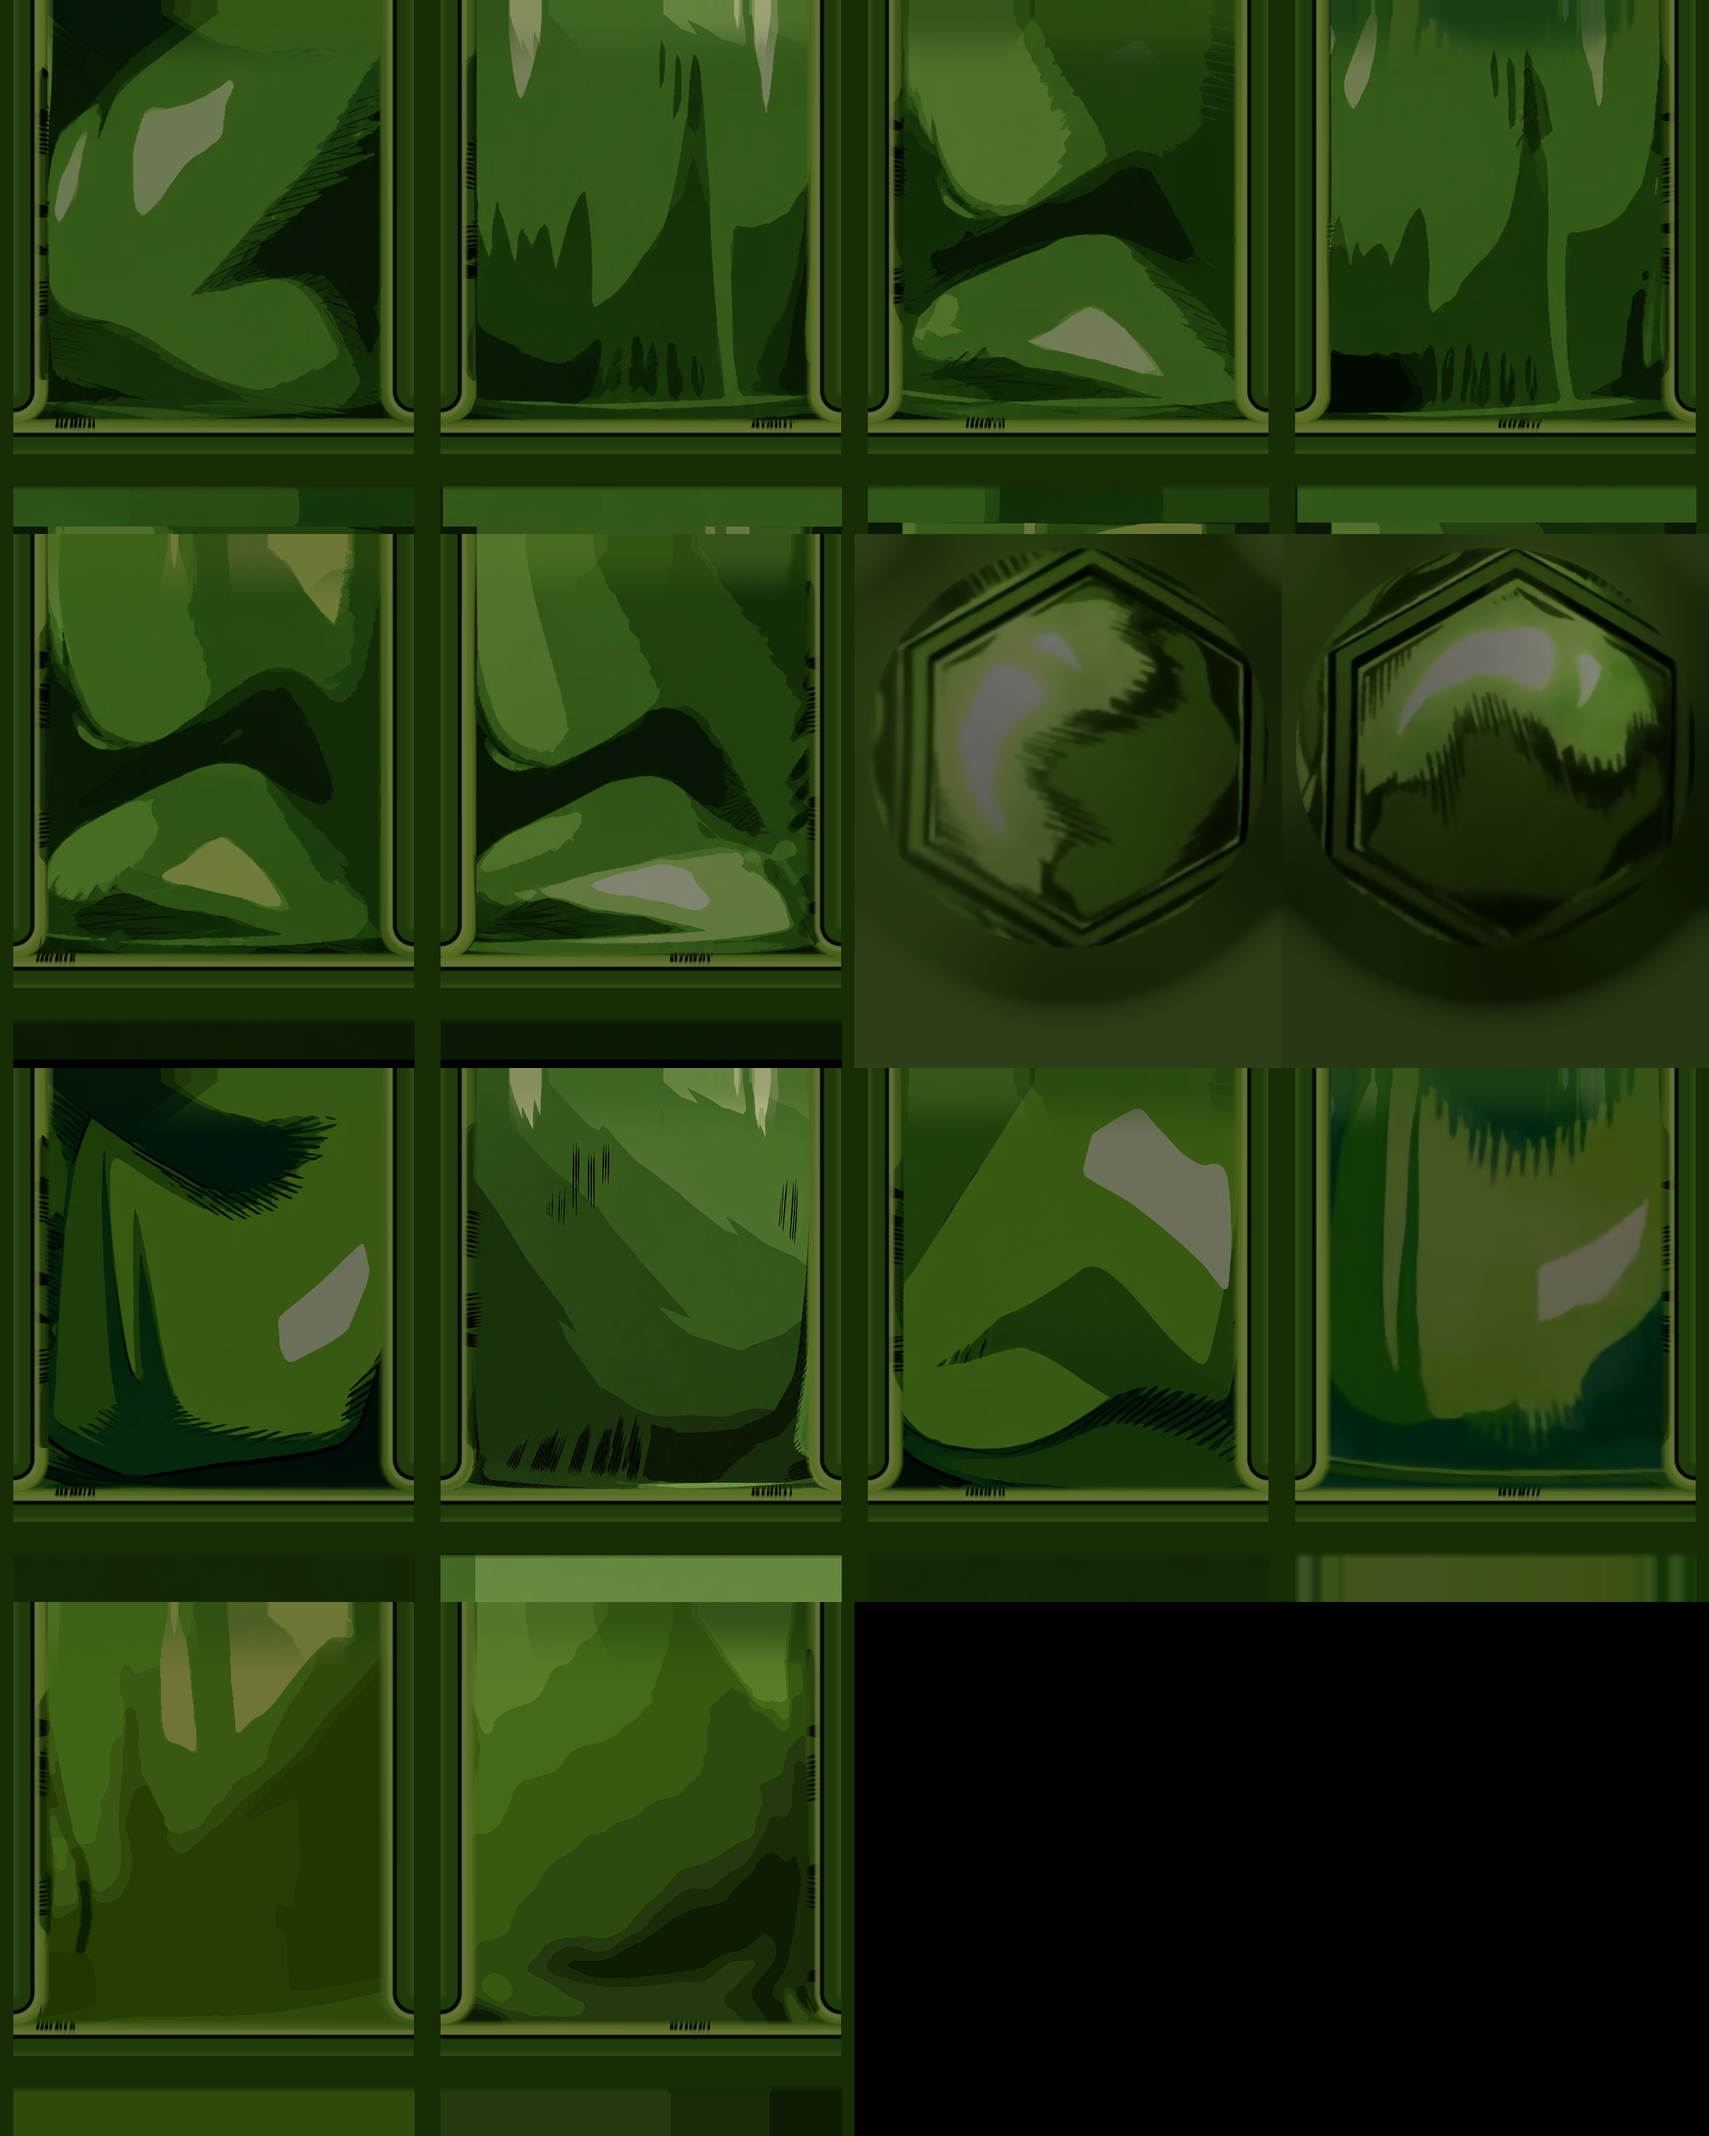
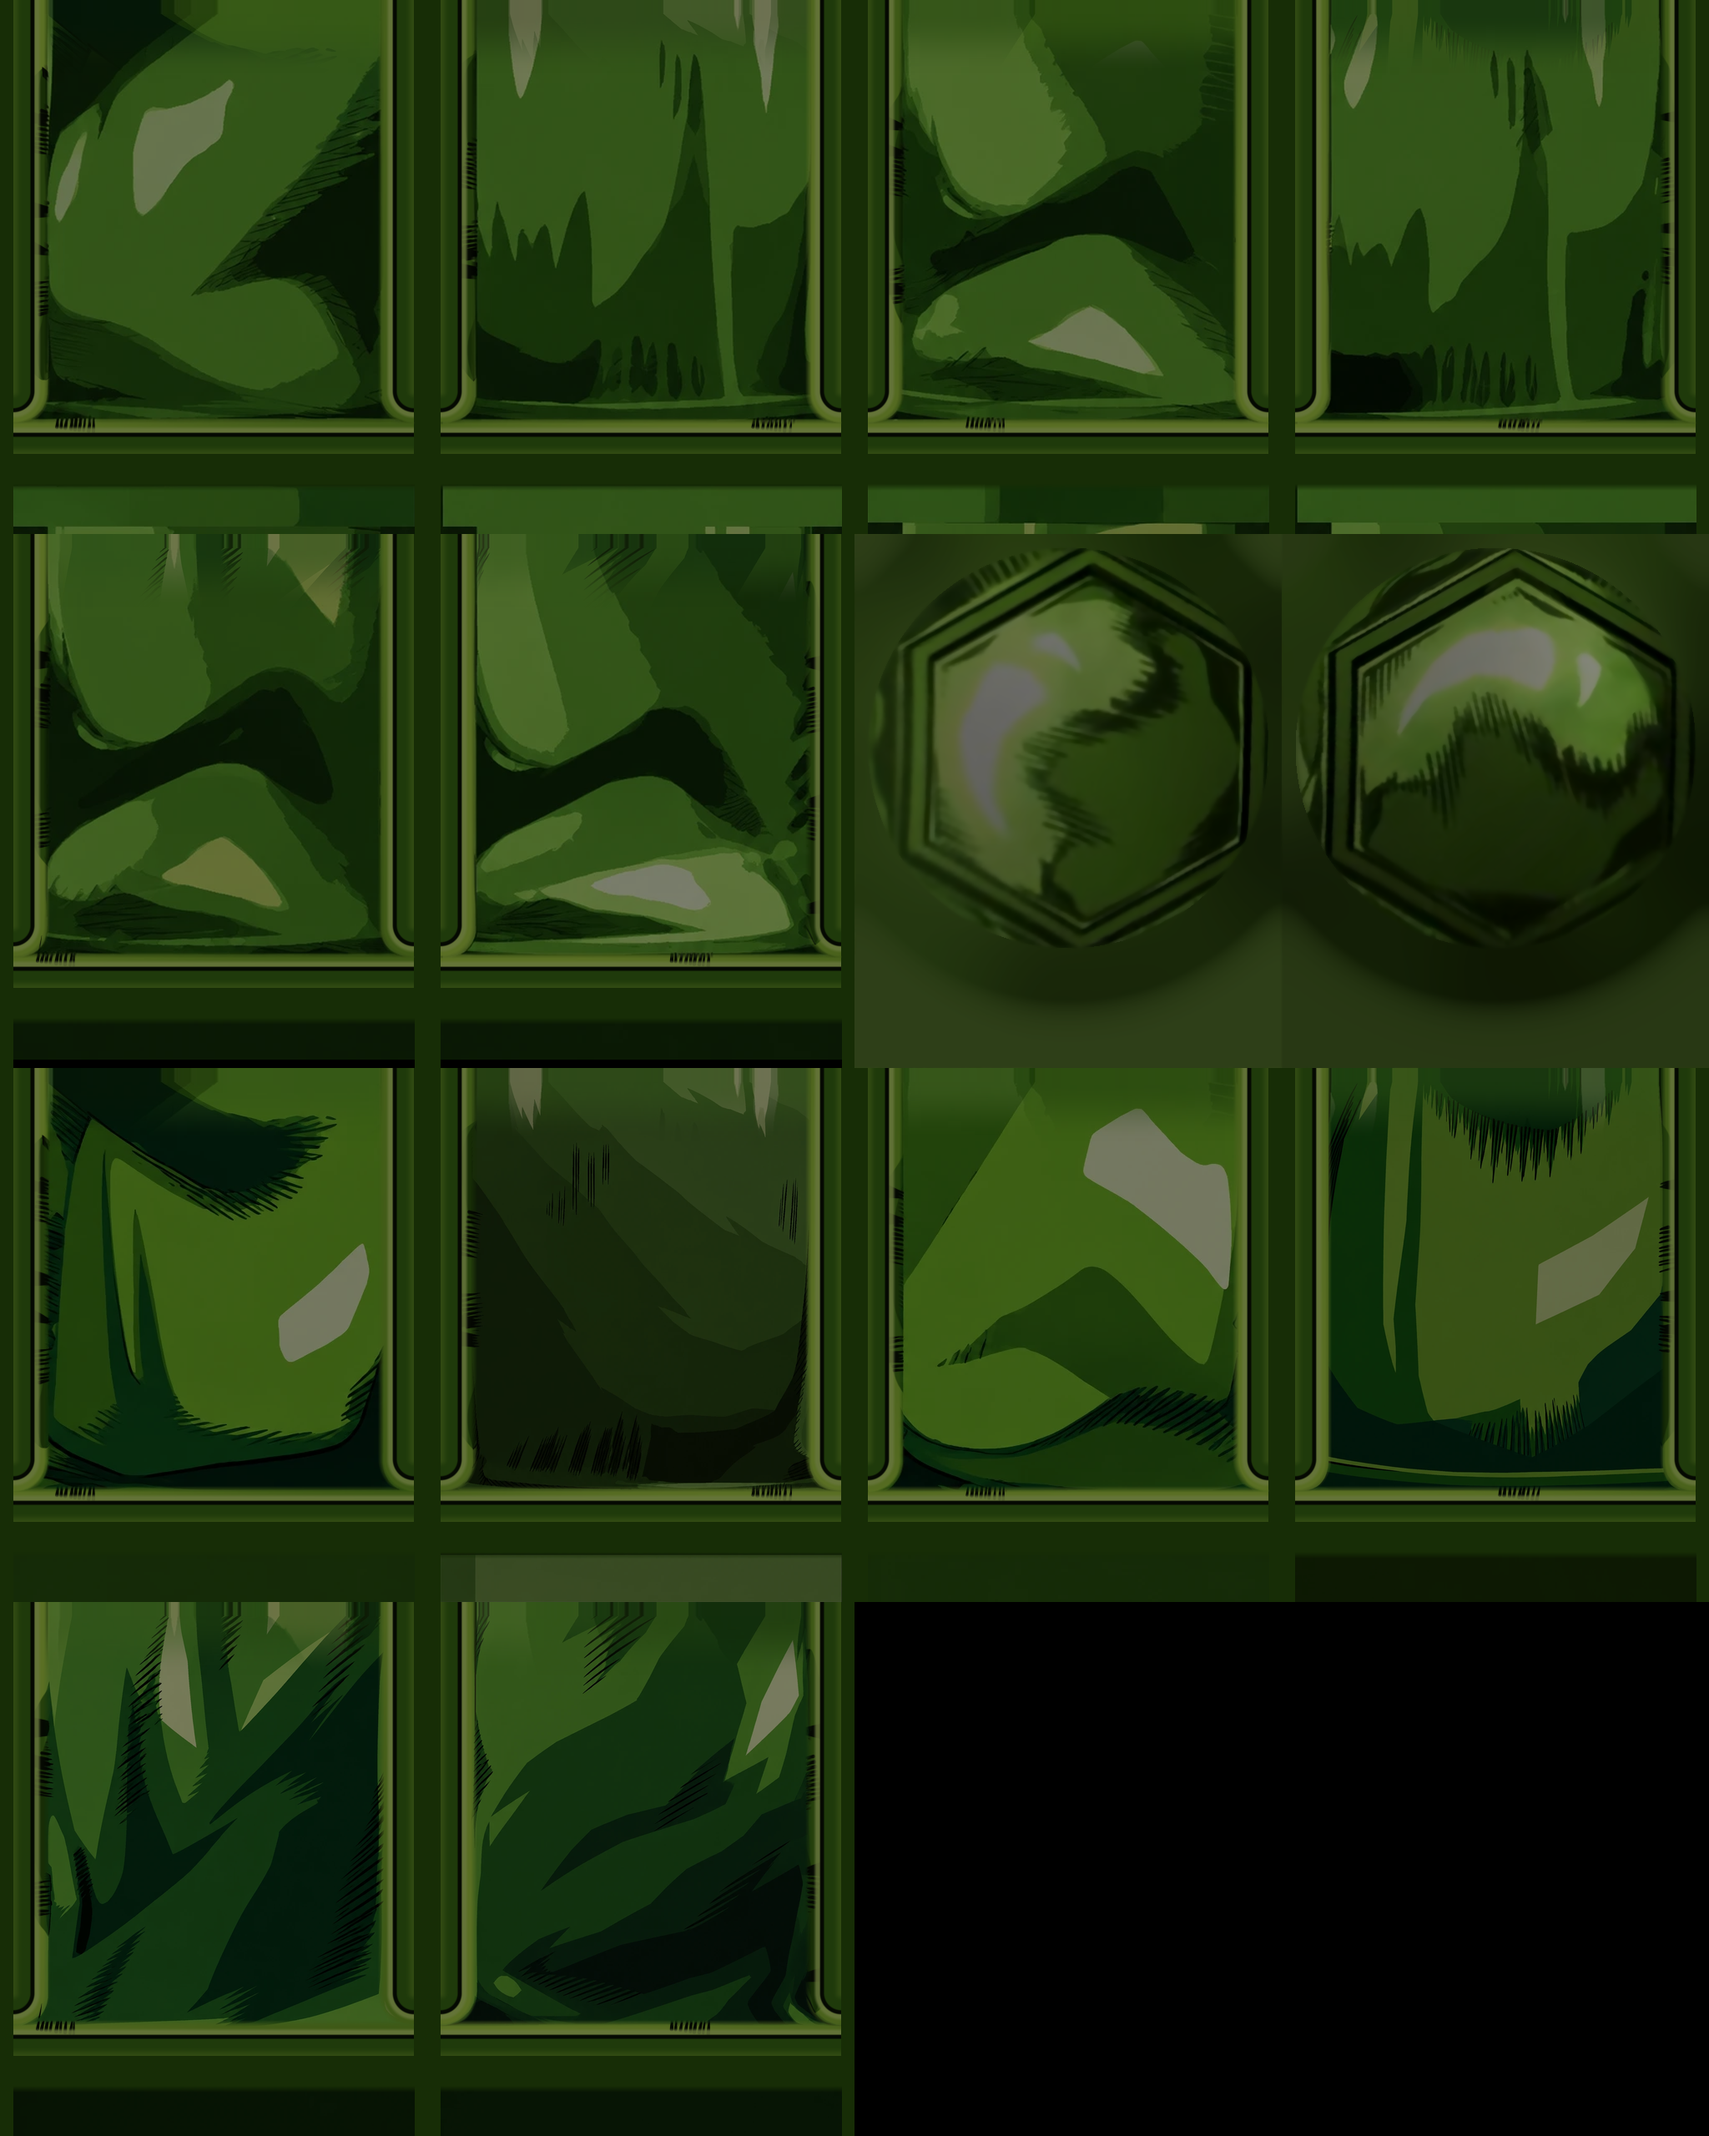
feat(paint): use polished south panels 11-13, keep polished art at its own brightness

diff --git a/scripts/paint/bake_atlas.py b/scripts/paint/bake_atlas.py
@@ -149,9 +149,9 @@ def lit_level(cell):
     else:
         yy,xx=np.mgrid[0:CELL[1],0:CELL[0]]; m=np.hypot(xx-HEXC[0],yy-HEXC[1])<HEXR*0.75
     return np.percentile(L[m],70)
-LV=[lit_level(c) for c in range(NC)]; TARGET=float(np.median(LV)); print('lit levels',np.round(LV,1),'target %.1f'%TARGET)
+LV=[lit_level(c) for c in range(NC)]; TARGET=float(np.median([LV[c] for c in POL] or LV));   # polished art is already consistent: match the rest to it, print('lit levels',np.round(LV,1),'target %.1f'%TARGET)
 for cell in range(NC):
-    g=np.clip(TARGET/LV[cell],0.6,2.2); x0,y0=(cell%4)*CELL[0],(cell//4)*CELL[1]
+    g=1.0 if cell in POL else np.clip(TARGET/LV[cell],0.6,2.2); x0,y0=(cell%4)*CELL[0],(cell//4)*CELL[1]
     out[y0:y0+CELL[1],x0:x0+CELL[0]]=np.clip(out[y0:y0+CELL[1],x0:x0+CELL[0]].astype(np.float32)*g,0,255).astype(np.uint8)
 # equator seam: a panel's north cell k and south cell 8+k meet along their top edge (y=PY). They are painted
 # apart now, so blend them toward each other over SEAM px so the paint is continuous across the equator.
